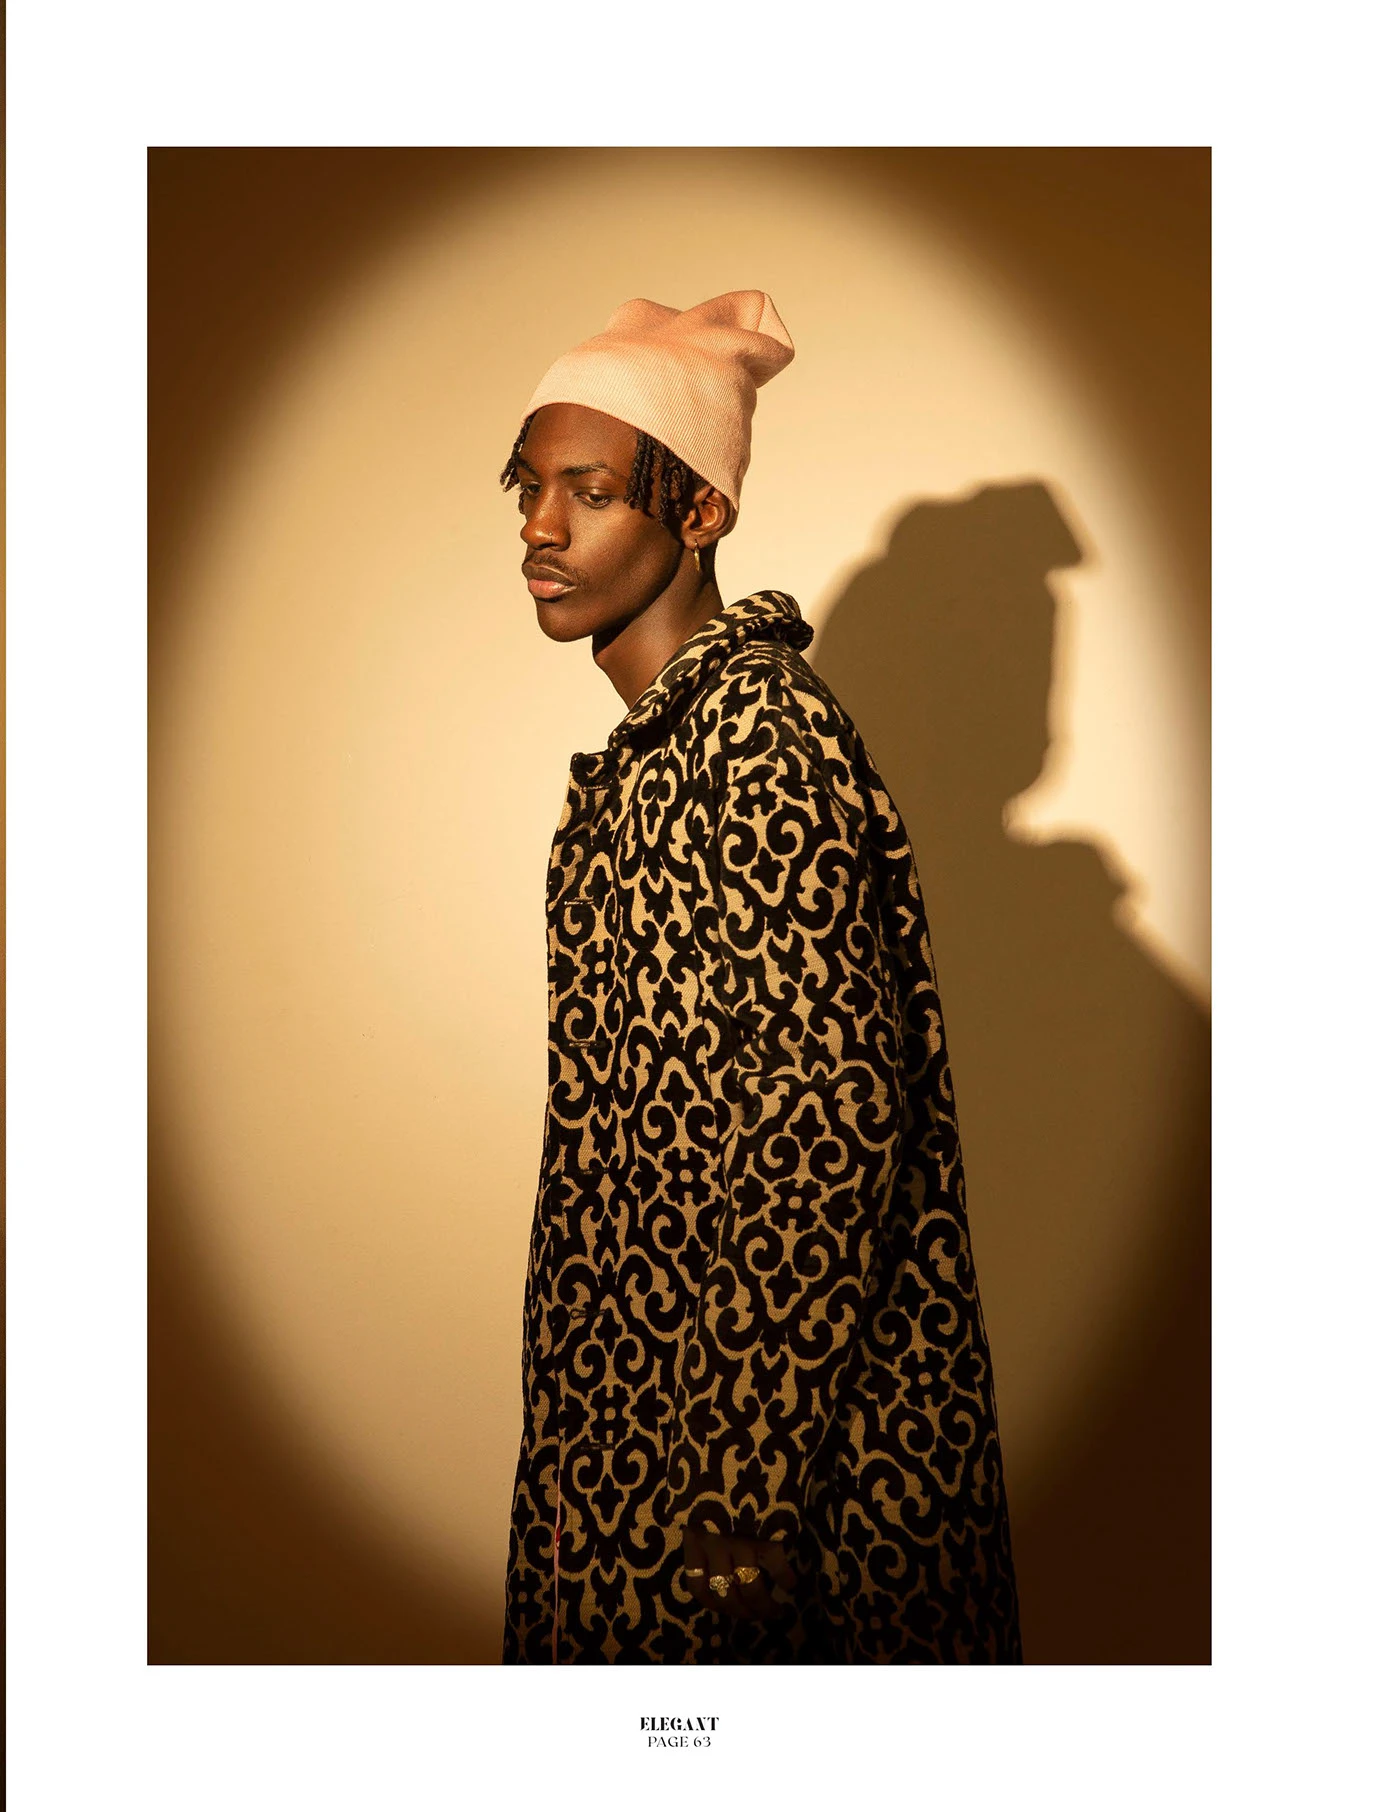
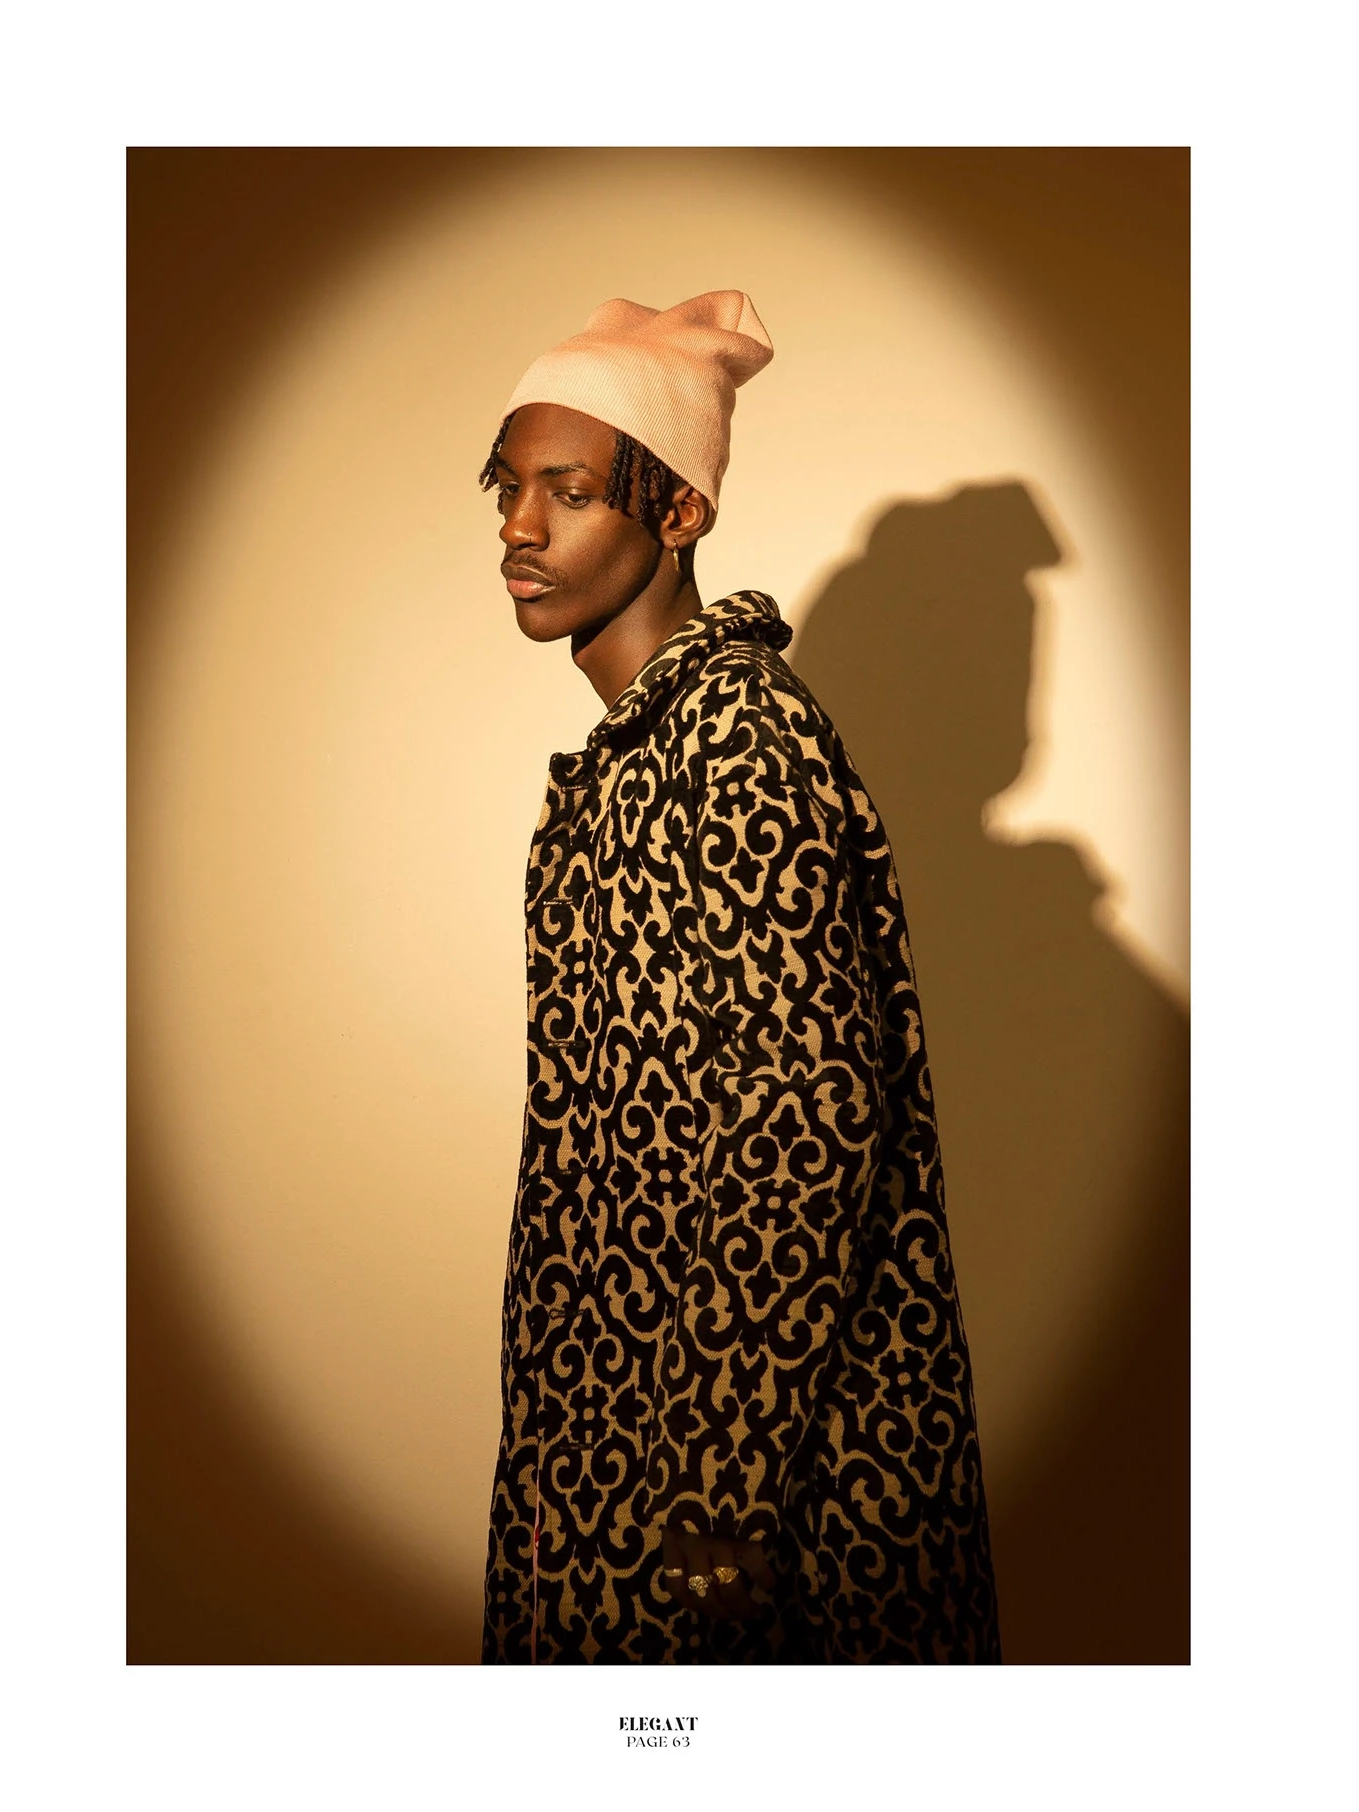
Sync projectData images[] with the photos actually kept in /images
User trimmed unwanted photos from several galleries (payless, elegant,
imirage, penida, scorpiovin, shuba, tag) and replaced two elegant files.
Rebuilt each project's images[] array from what's actually on disk so
the slider doesn't reference deleted files.

diff --git a/index.html b/index.html
@@ -810,19 +810,19 @@
   const modalClose = document.getElementById('modalClose');
 
   const projectData = {
-    penida: { images: ['images/editorial/penida/01.jpg', 'images/editorial/penida/02.webp', 'images/editorial/penida/03.webp', 'images/editorial/penida/04.webp', 'images/editorial/penida/05.webp', 'images/editorial/penida/06.webp', 'images/editorial/penida/07.webp', 'images/editorial/penida/08.webp', 'images/editorial/penida/09.webp', 'images/editorial/penida/10.webp', 'images/editorial/penida/11.webp', 'images/editorial/penida/12.webp'], folder: 'images/editorial/penida', title: 'PENIDA', sub: {en:'Penida Magazine — Editorial / Sep 2025', es:'Revista Penida — Editorial / Sep 2025'}, note: {en:'Cover shown here from the MILO Studio editorial archive.', es:'Portada del archivo editorial de MILO Studio.'}, behance: 'https://www.behance.net/gallery/230267081/Venon-Bloom' },
-    elegant: { images: ['images/editorial/elegant/01.jpg', 'images/editorial/elegant/02.webp', 'images/editorial/elegant/03.webp', 'images/editorial/elegant/04.webp', 'images/editorial/elegant/05.webp', 'images/editorial/elegant/06.webp', 'images/editorial/elegant/07.webp', 'images/editorial/elegant/08.webp', 'images/editorial/elegant/09.webp', 'images/editorial/elegant/10.webp', 'images/editorial/elegant/11.webp', 'images/editorial/elegant/12.webp'], folder: 'images/editorial/elegant', title: 'ELEGANT', sub: {en:'Elegant Magazine — Otto by Eriko', es:'Revista Elegant — Otto by Eriko'}, note: {en:'Cover shown here from the MILO Studio editorial archive.', es:'Portada del archivo editorial de MILO Studio.'}, behance: 'https://www.behance.net/gallery/136375879/Otto' },
-    imirage: { images: ['images/editorial/imirage/01.jpg', 'images/editorial/imirage/02.webp', 'images/editorial/imirage/03.webp', 'images/editorial/imirage/04.webp', 'images/editorial/imirage/05.webp', 'images/editorial/imirage/06.webp', 'images/editorial/imirage/07.webp', 'images/editorial/imirage/08.webp', 'images/editorial/imirage/09.webp', 'images/editorial/imirage/10.webp'], folder: 'images/editorial/imirage', title: 'IMIRAGE', sub: {en:'Imirage Magazine — Beauty Editorial', es:'Revista Imirage — Editorial de Belleza'}, note: {en:'Cover shown here from the MILO Studio editorial archive.', es:'Portada del archivo editorial de MILO Studio.'}, behance: 'https://www.behance.net/gallery/121980999/Red-Muse' },
-    shuba: { images: ['images/editorial/shuba/01.jpg', 'images/editorial/shuba/02.webp', 'images/editorial/shuba/03.webp', 'images/editorial/shuba/04.webp', 'images/editorial/shuba/05.webp', 'images/editorial/shuba/06.webp', 'images/editorial/shuba/07.webp', 'images/editorial/shuba/08.webp', 'images/editorial/shuba/09.webp', 'images/editorial/shuba/10.webp'], folder: 'images/editorial/shuba', title: 'SHUBA', sub: {en:'Shuba Magazine — Diversity Makeup, Issue 11', es:'Revista Shuba — Maquillaje Diversidad, Edición 11'}, note: {en:'Cover shown here from the MILO Studio editorial archive.', es:'Portada del archivo editorial de MILO Studio.'}, behance: 'https://www.behance.net/gallery/170986845/Shuba-MAG' },
-    scorpiovin: { images: ['images/editorial/scorpiovin/01.jpg', 'images/editorial/scorpiovin/02.webp', 'images/editorial/scorpiovin/03.webp', 'images/editorial/scorpiovin/04.webp', 'images/editorial/scorpiovin/05.webp', 'images/editorial/scorpiovin/06.webp', 'images/editorial/scorpiovin/07.webp', 'images/editorial/scorpiovin/08.webp', 'images/editorial/scorpiovin/09.webp', 'images/editorial/scorpiovin/10.webp', 'images/editorial/scorpiovin/11.webp', 'images/editorial/scorpiovin/12.webp'], folder: 'images/editorial/scorpiovin', title: 'SCORPIO VIN', sub: {en:'Scorpio Vin — Neoscivic Editorial', es:'Scorpio Vin — Editorial Neoscivic'}, note: {en:'Cover shown here from the MILO Studio editorial archive.', es:'Portada del archivo editorial de MILO Studio.'}, behance: 'https://www.behance.net/gallery/237730315/Neoscivic' },
+    penida: { images: ['images/editorial/penida/01.jpg', 'images/editorial/penida/06.webp', 'images/editorial/penida/07.webp', 'images/editorial/penida/08.webp', 'images/editorial/penida/09.webp', 'images/editorial/penida/10.webp', 'images/editorial/penida/11.webp', 'images/editorial/penida/12.webp'], folder: 'images/editorial/penida', title: 'PENIDA', sub: {en:'Penida Magazine — Editorial / Sep 2025', es:'Revista Penida — Editorial / Sep 2025'}, note: {en:'Cover shown here from the MILO Studio editorial archive.', es:'Portada del archivo editorial de MILO Studio.'}, behance: 'https://www.behance.net/gallery/230267081/Venon-Bloom' },
+    elegant: { images: ['images/editorial/elegant/01.jpg', 'images/editorial/elegant/02.webp', 'images/editorial/elegant/04.webp', 'images/editorial/elegant/05.webp', 'images/editorial/elegant/06.webp', 'images/editorial/elegant/07.webp', 'images/editorial/elegant/08.webp', 'images/editorial/elegant/09.webp', 'images/editorial/elegant/10.webp', 'images/editorial/elegant/11.webp', 'images/editorial/elegant/12.webp'], folder: 'images/editorial/elegant', title: 'ELEGANT', sub: {en:'Elegant Magazine — Otto by Eriko', es:'Revista Elegant — Otto by Eriko'}, note: {en:'Cover shown here from the MILO Studio editorial archive.', es:'Portada del archivo editorial de MILO Studio.'}, behance: 'https://www.behance.net/gallery/136375879/Otto' },
+    imirage: { images: ['images/editorial/imirage/01.jpg', 'images/editorial/imirage/07.webp', 'images/editorial/imirage/08.webp', 'images/editorial/imirage/09.webp', 'images/editorial/imirage/10.webp'], folder: 'images/editorial/imirage', title: 'IMIRAGE', sub: {en:'Imirage Magazine — Beauty Editorial', es:'Revista Imirage — Editorial de Belleza'}, note: {en:'Cover shown here from the MILO Studio editorial archive.', es:'Portada del archivo editorial de MILO Studio.'}, behance: 'https://www.behance.net/gallery/121980999/Red-Muse' },
+    shuba: { images: ['images/editorial/shuba/01.jpg', 'images/editorial/shuba/08.webp', 'images/editorial/shuba/09.webp', 'images/editorial/shuba/10.webp'], folder: 'images/editorial/shuba', title: 'SHUBA', sub: {en:'Shuba Magazine — Diversity Makeup, Issue 11', es:'Revista Shuba — Maquillaje Diversidad, Edición 11'}, note: {en:'Cover shown here from the MILO Studio editorial archive.', es:'Portada del archivo editorial de MILO Studio.'}, behance: 'https://www.behance.net/gallery/170986845/Shuba-MAG' },
+    scorpiovin: { images: ['images/editorial/scorpiovin/01.jpg', 'images/editorial/scorpiovin/02.webp', 'images/editorial/scorpiovin/04.webp', 'images/editorial/scorpiovin/05.webp', 'images/editorial/scorpiovin/06.webp', 'images/editorial/scorpiovin/07.webp', 'images/editorial/scorpiovin/08.webp', 'images/editorial/scorpiovin/09.webp', 'images/editorial/scorpiovin/10.webp', 'images/editorial/scorpiovin/11.webp'], folder: 'images/editorial/scorpiovin', title: 'SCORPIO VIN', sub: {en:'Scorpio Vin — Neoscivic Editorial', es:'Scorpio Vin — Editorial Neoscivic'}, note: {en:'Cover shown here from the MILO Studio editorial archive.', es:'Portada del archivo editorial de MILO Studio.'}, behance: 'https://www.behance.net/gallery/237730315/Neoscivic' },
     mob: { images: ['images/editorial/mob/01.jpg', 'images/editorial/mob/02.webp', 'images/editorial/mob/03.webp', 'images/editorial/mob/04.webp', 'images/editorial/mob/05.webp', 'images/editorial/mob/06.webp', 'images/editorial/mob/07.webp', 'images/editorial/mob/08.webp', 'images/editorial/mob/09.webp'], folder: 'images/editorial/mob', title: 'MOB', sub: {en:'MOB Magazine — Editorial', es:'Revista MOB — Editorial'}, note: {en:'Cover shown here from the MILO Studio editorial archive.', es:'Portada del archivo editorial de MILO Studio.'}, behance: 'https://www.behance.net/gallery/217204699/Muskaria-Mob-Journal' },
-    tag: { images: ['images/editorial/tag/01.jpg', 'images/editorial/tag/02.webp', 'images/editorial/tag/03.webp', 'images/editorial/tag/04.webp', 'images/editorial/tag/05.webp', 'images/editorial/tag/06.webp', 'images/editorial/tag/07.webp', 'images/editorial/tag/08.webp', 'images/editorial/tag/09.webp', 'images/editorial/tag/10.webp', 'images/editorial/tag/11.webp', 'images/editorial/tag/12.webp', 'images/editorial/tag/13.webp', 'images/editorial/tag/14.webp', 'images/editorial/tag/15.webp', 'images/editorial/tag/16.webp'], folder: 'images/editorial/tag', title: 'TAG', sub: {en:'Tag Magazine — Editorial', es:'Revista Tag — Editorial'}, note: {en:'Cover shown here from the MILO Studio editorial archive.', es:'Portada del archivo editorial de MILO Studio.'}, behance: 'https://www.behance.net/gallery/249848237/Tag-FILM-Editorial' },
+    tag: { images: ['images/editorial/tag/01.jpg', 'images/editorial/tag/02.webp', 'images/editorial/tag/03.webp', 'images/editorial/tag/05.webp', 'images/editorial/tag/06.webp', 'images/editorial/tag/07.webp', 'images/editorial/tag/08.webp', 'images/editorial/tag/09.webp', 'images/editorial/tag/10.webp', 'images/editorial/tag/11.webp', 'images/editorial/tag/12.webp', 'images/editorial/tag/13.webp', 'images/editorial/tag/14.webp', 'images/editorial/tag/15.webp', 'images/editorial/tag/16.webp'], folder: 'images/editorial/tag', title: 'TAG', sub: {en:'Tag Magazine — Editorial', es:'Revista Tag — Editorial'}, note: {en:'Cover shown here from the MILO Studio editorial archive.', es:'Portada del archivo editorial de MILO Studio.'}, behance: 'https://www.behance.net/gallery/249848237/Tag-FILM-Editorial' },
     nike: { images: ['images/campaigns/nike/01.jpg'], folder: 'images/campaigns/nike', title: 'NIKE', sub: {en:'Dafiti LATAM Campaign', es:'Campaña Dafiti LATAM'}, note: {en:'Campaign imagery from the MILO Studio production archive.', es:'Imágenes de campaña del archivo de producción de MILO Studio.'} },
     adidas: { images: ['images/campaigns/adidas/01.jpg'], folder: 'images/campaigns/adidas', title: 'ADIDAS', sub: {en:'Dafiti LATAM Campaign', es:'Campaña Dafiti LATAM'}, note: {en:'Campaign imagery from the MILO Studio production archive.', es:'Imágenes de campaña del archivo de producción de MILO Studio.'}, behance: 'https://www.behance.net/gallery/252052449/Adidas-Retouch-HH-Global' },
     zegna: { images: ['images/campaigns/zegna/01.jpg'], folder: 'images/campaigns/zegna', title: 'ZEGNA', sub: {en:'Le Collezioni Campaign', es:'Campaña Le Collezioni'}, note: {en:'Campaign imagery from the MILO Studio production archive.', es:'Imágenes de campaña del archivo de producción de MILO Studio.'} },
     valentino: { images: ['images/campaigns/valentino/01.jpg'], folder: 'images/campaigns/valentino', title: 'VALENTINO', sub: {en:'Le Collezioni Campaign', es:'Campaña Le Collezioni'}, note: {en:'Campaign imagery from the MILO Studio production archive.', es:'Imágenes de campaña del archivo de producción de MILO Studio.'} },
     iceberg: { images: ['images/campaigns/iceberg/01.jpg'], folder: 'images/campaigns/iceberg', title: 'ICEBERG', sub: {en:'Le Collezioni Campaign', es:'Campaña Le Collezioni'}, note: {en:'Campaign imagery from the MILO Studio production archive.', es:'Imágenes de campaña del archivo de producción de MILO Studio.'} },
-    payless: { images: ['images/campaigns/payless/01.jpg', 'images/campaigns/payless/02.webp', 'images/campaigns/payless/03.webp', 'images/campaigns/payless/04.webp', 'images/campaigns/payless/05.webp', 'images/campaigns/payless/06.webp', 'images/campaigns/payless/07.webp', 'images/campaigns/payless/08.webp', 'images/campaigns/payless/09.webp', 'images/campaigns/payless/10.webp'], folder: 'images/campaigns/payless', title: 'PAYLESS', sub: {en:'Back to School Campaign', es:'Campaña Regreso a Clases'}, note: {en:'Campaign imagery from the MILO Studio production archive.', es:'Imágenes de campaña del archivo de producción de MILO Studio.'}, behance: 'https://www.behance.net/gallery/216206603/Payless-Back-to-School' },
+    payless: { images: ['images/campaigns/payless/01.jpg', 'images/campaigns/payless/03.webp', 'images/campaigns/payless/04.webp', 'images/campaigns/payless/05.webp', 'images/campaigns/payless/07.webp', 'images/campaigns/payless/08.webp', 'images/campaigns/payless/09.webp', 'images/campaigns/payless/10.webp'], folder: 'images/campaigns/payless', title: 'PAYLESS', sub: {en:'Back to School Campaign', es:'Campaña Regreso a Clases'}, note: {en:'Campaign imagery from the MILO Studio production archive.', es:'Imágenes de campaña del archivo de producción de MILO Studio.'}, behance: 'https://www.behance.net/gallery/216206603/Payless-Back-to-School' },
     calvin_k: { images: ['images/campaigns/calvin_k/01.jpg'], folder: 'images/campaigns/calvin_k', title: 'CALVIN KLEIN', sub: {en:'Le Collezioni Campaign', es:'Campaña Le Collezioni'}, note: {en:'Campaign imagery from the MILO Studio production archive.', es:'Imágenes de campaña del archivo de producción de MILO Studio.'} },
     desigual: { images: ['images/campaigns/desigual/01.jpg'], folder: 'images/campaigns/desigual', title: 'DESIGUAL', sub: {en:'Campaign', es:'Campaña'}, note: {en:'Campaign imagery from the MILO Studio production archive.', es:'Imágenes de campaña del archivo de producción de MILO Studio.'} },
     fila: { images: ['images/campaigns/fila/01.jpg'], folder: 'images/campaigns/fila', title: 'FILA', sub: {en:'Campaign', es:'Campaña'}, note: {en:'Campaign imagery from the MILO Studio production archive.', es:'Imágenes de campaña del archivo de producción de MILO Studio.'} },
